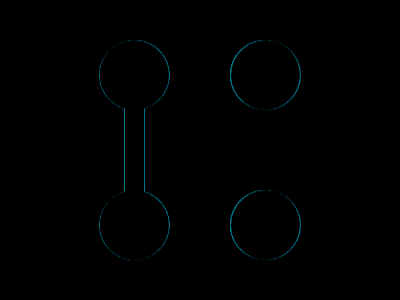
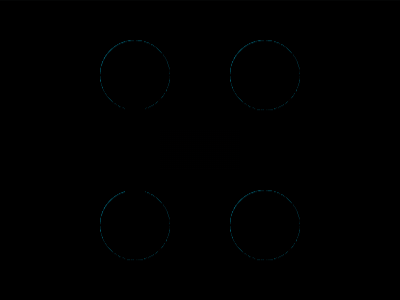
Score: 643, Characters: 234 (100.00% match) - CSSHub

diff --git a/Daily Targets/2026-08-02/README.md b/Daily Targets/2026-08-02/README.md
@@ -24,12 +24,12 @@ Challenge: <https://cssbattle.dev/play/j5lNXe0bnIf95N6TxmQ7>
 ```html
 <style>
   & {
-    margin:70 124;
+    margin:70 125;
     background: #E05947;
     color:#EED9D9;
     box-shadow:inset 20px 0;
     *{
-      background:conic-gradient(#EED9D9)-9px/129% 50% no-repeat;
+      background:conic-gradient(#EED9D9)-10px/134% 50% no-repeat;
       border:70px dotted #EED9D9;
       margin:-30 -25;
 ```
@@ -39,12 +39,12 @@ Challenge: <https://cssbattle.dev/play/j5lNXe0bnIf95N6TxmQ7>
 ```html
 <style>
   & {
-    margin:70 124;
+    margin:70 125;
     background: #E05947;
     color:#EED9D9;
     box-shadow:inset 20px 0;
     *{
-      background:conic-gradient(#EED9D9)-9px/129% 50% no-repeat;
+      background:conic-gradient(#EED9D9)-10px/134% 50% no-repeat;
       border:70px dotted #EED9D9;
       margin:-30 -25;
 ```

diff --git a/README.md b/README.md
@@ -93,7 +93,7 @@
 
 <ul>
 <li><a href="./Daily%20Targets/2026-08-01/">Aug 1, 2026</a> (150 Characters)</li>
-<li><a href="./Daily%20Targets/2026-08-02/">Aug 2, 2026</a> (233 Characters)</li>
+<li><a href="./Daily%20Targets/2026-08-02/">Aug 2, 2026</a> (234 Characters)</li>
 </ul>
 </details>
 </li>
